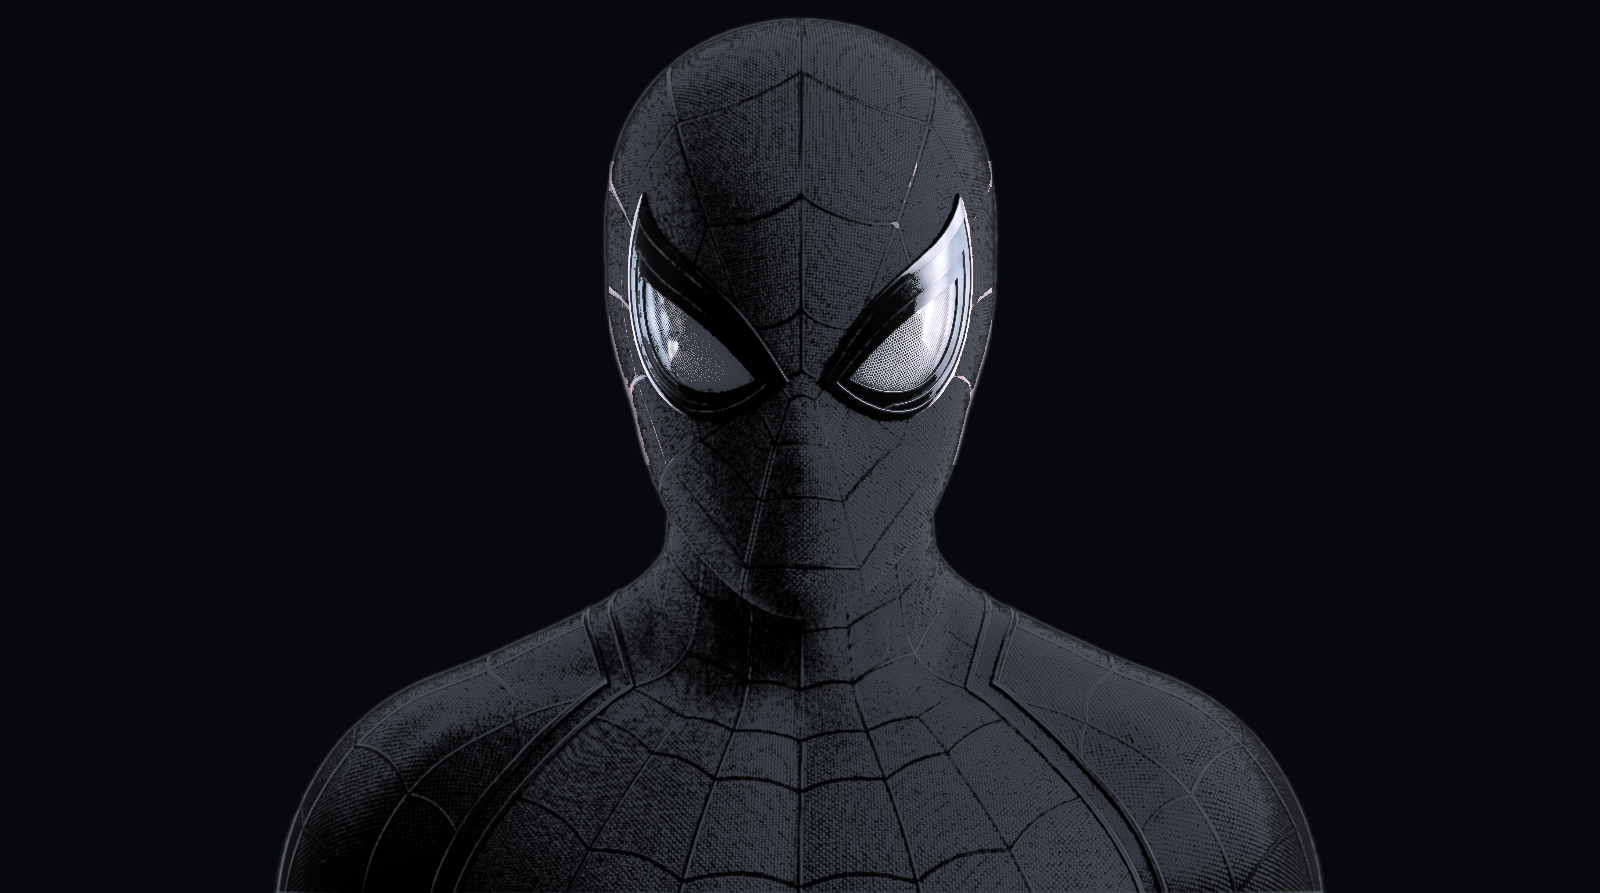
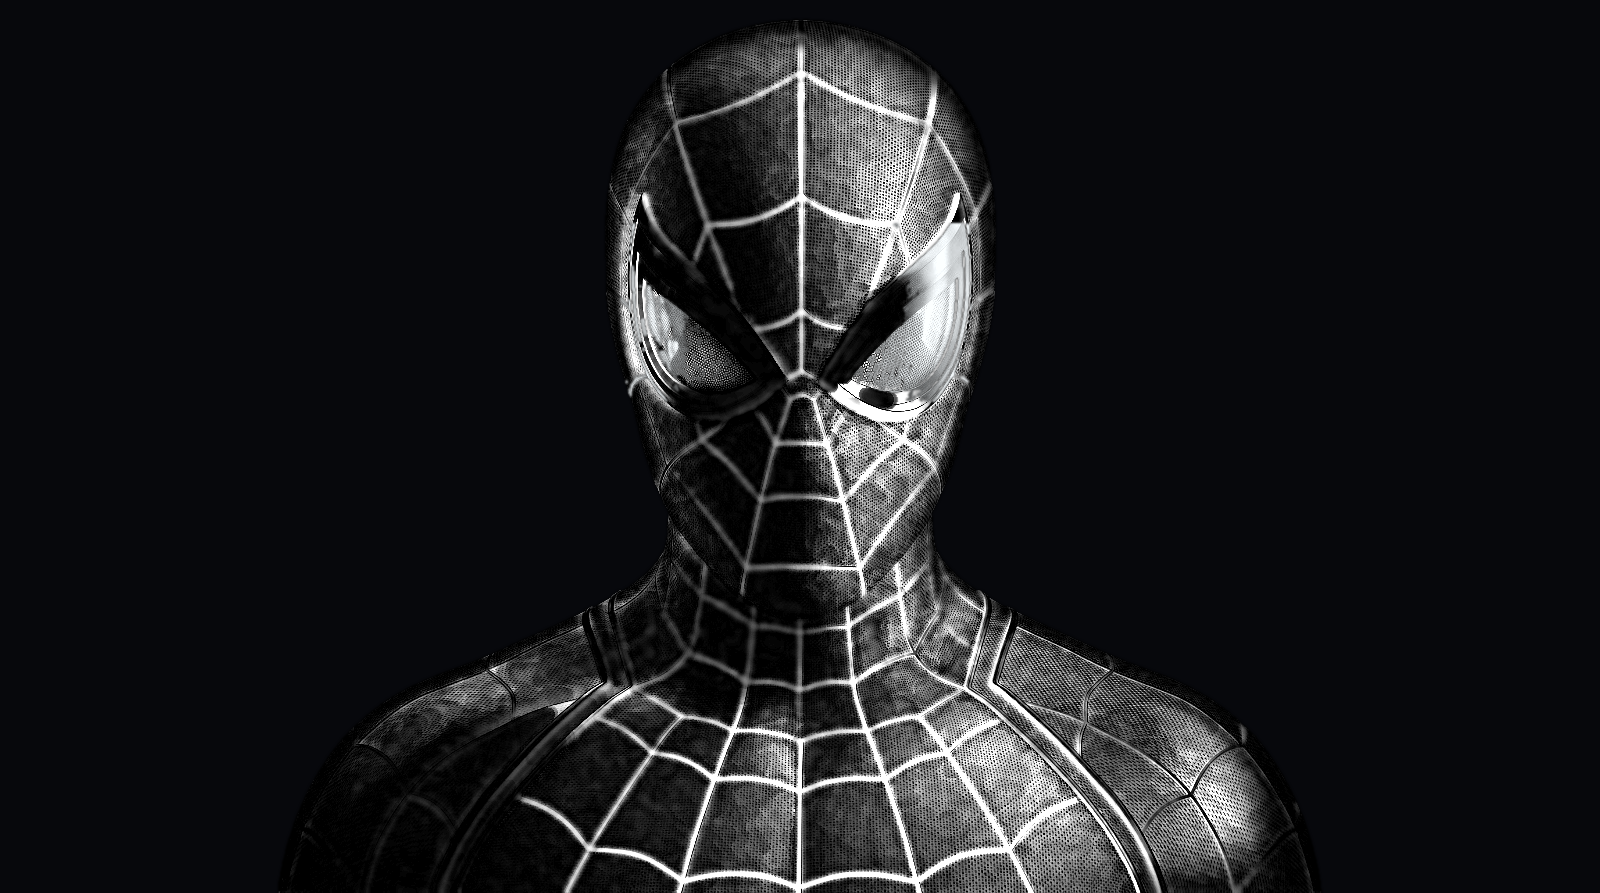
feat(hero): update symbiote black spiderman with silver 3D webbing lines matching reference photo

Changed region(s): [[0.1875, 0.0, 0.8438, 1.0], [0.25, 0.9675, 0.3125, 1.0], [0.1562, 0.9373, 0.1875, 1.0]]

diff --git a/portfolio/components/Hero.tsx b/portfolio/components/Hero.tsx
@@ -181,7 +181,7 @@ export default function Hero() {
           <Image
             src={
               isSymbiote
-                ? "/spiderman/symbiote-spiderman.png"
+                ? "/spiderman/symbiote-spiderman.png?v=silver3d"
                 : "/spiderman/image-1.png"
             }
             alt={isSymbiote ? "Black Suit Symbiote Spider-Man" : "Spider-Man Masked"}
